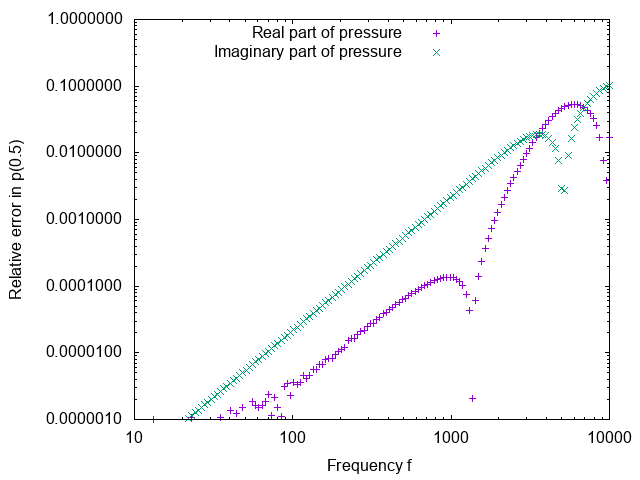
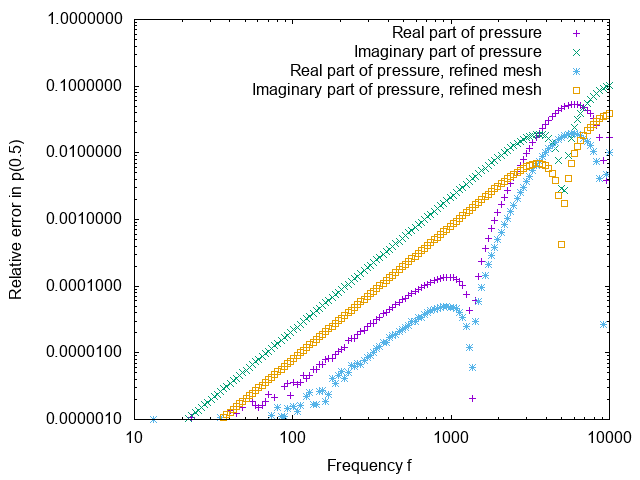
Update.

diff --git a/testing/testing.tex b/testing/testing.tex
@@ -447,14 +447,47 @@ of the quantities
 These figures show that not only do the computed solutions lie on top
 of the theoretical predictions, but in fact the difference is also
 quite small even on this relatively coarse mesh: Pressure errors are
-generally less than a few percent up to the first resonance, and the
+generally less than a few percent when close to the first resonance
+(and much smaller for lower frequencies), and the
 same is true for the velocity. It is worth noting that the mesh is so
 coarse that we no longer adequately resolve the solution at the first
 resonance.
 
 To illustrate that we can obtain better results on finer meshes, the
-following figures show the same error metrics for a mesh that is once
-more refined:
+figures above also show the same error metrics for a mesh that is once
+more refined. The data show that the error in the pressure is reduced
+by a factor of 4 with mesh refinement, and by a factor of 2 for the
+velocity. This is in perfect accordance with the predictions from
+numerical analysis.
+
+
+\section{Testing with the original mesh}
+
+The mesh used so far was built within the solver, for the geometry at
+hand. The next check is to use the mesh provided by Jason, originally
+generated by gmsh. This required a small amount of adaptation because
+its long axis is the $z$ axis, rather than $x$ axis used before, and
+the mesh uses a scaling factor of 0.001 (that is, the mesh has size
+$0.5\times 0.5\times 1$ and is scaled down by a factor of 1000 to
+arrive at units in meters).
+
+With this mesh, and with the material properties as above (the first
+line of the \texttt{materials.txt} file used by Jason's test case),
+the results look as follows (for the mesh as read from file, as well
+as a once-refined version):
+\begin{center}
+\includegraphics[width=0.48\textwidth]{wave-guide-tet-real-material-jasons-mesh-0/pressure-at-center.png}
+\includegraphics[width=0.48\textwidth]{wave-guide-tet-real-material-jasons-mesh-0/velocity-at-center.png}
+\end{center}
+
+We can again compute the errors and notice that they are even better
+than with the mesh internally created:
+\begin{center}
+\includegraphics[width=0.48\textwidth]{wave-guide-tet-real-material-jasons-mesh-0/error-pressure-at-center.png}
+\includegraphics[width=0.48\textwidth]{wave-guide-tet-real-material-jasons-mesh-0/error-velocity-at-center.png}
+\end{center}
+
+
 
 
 \end{document}
